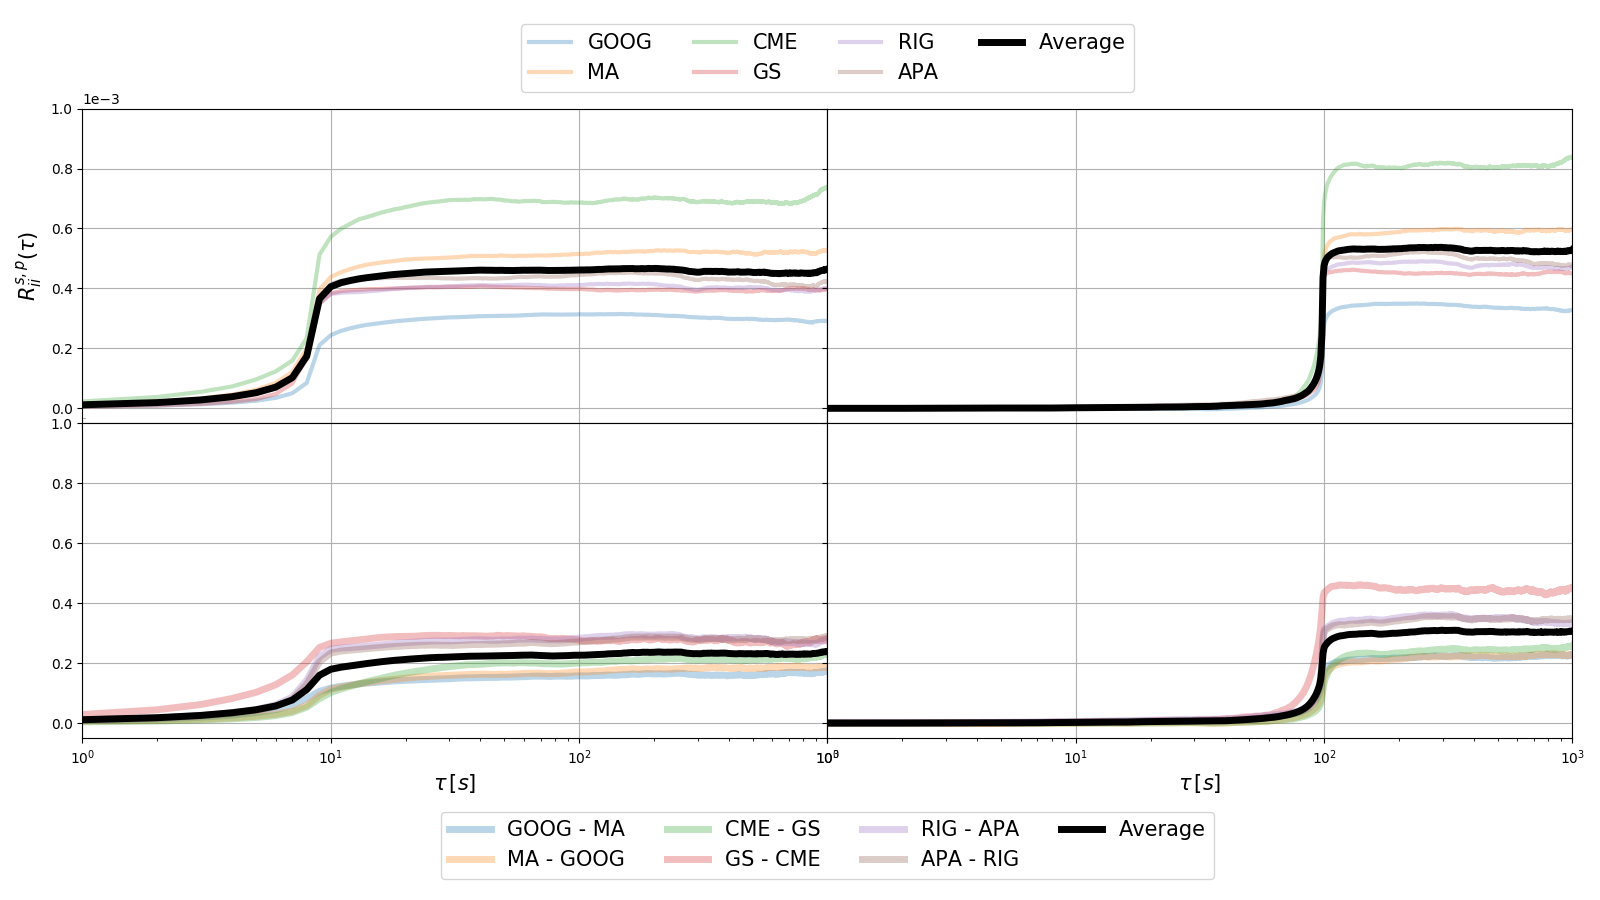
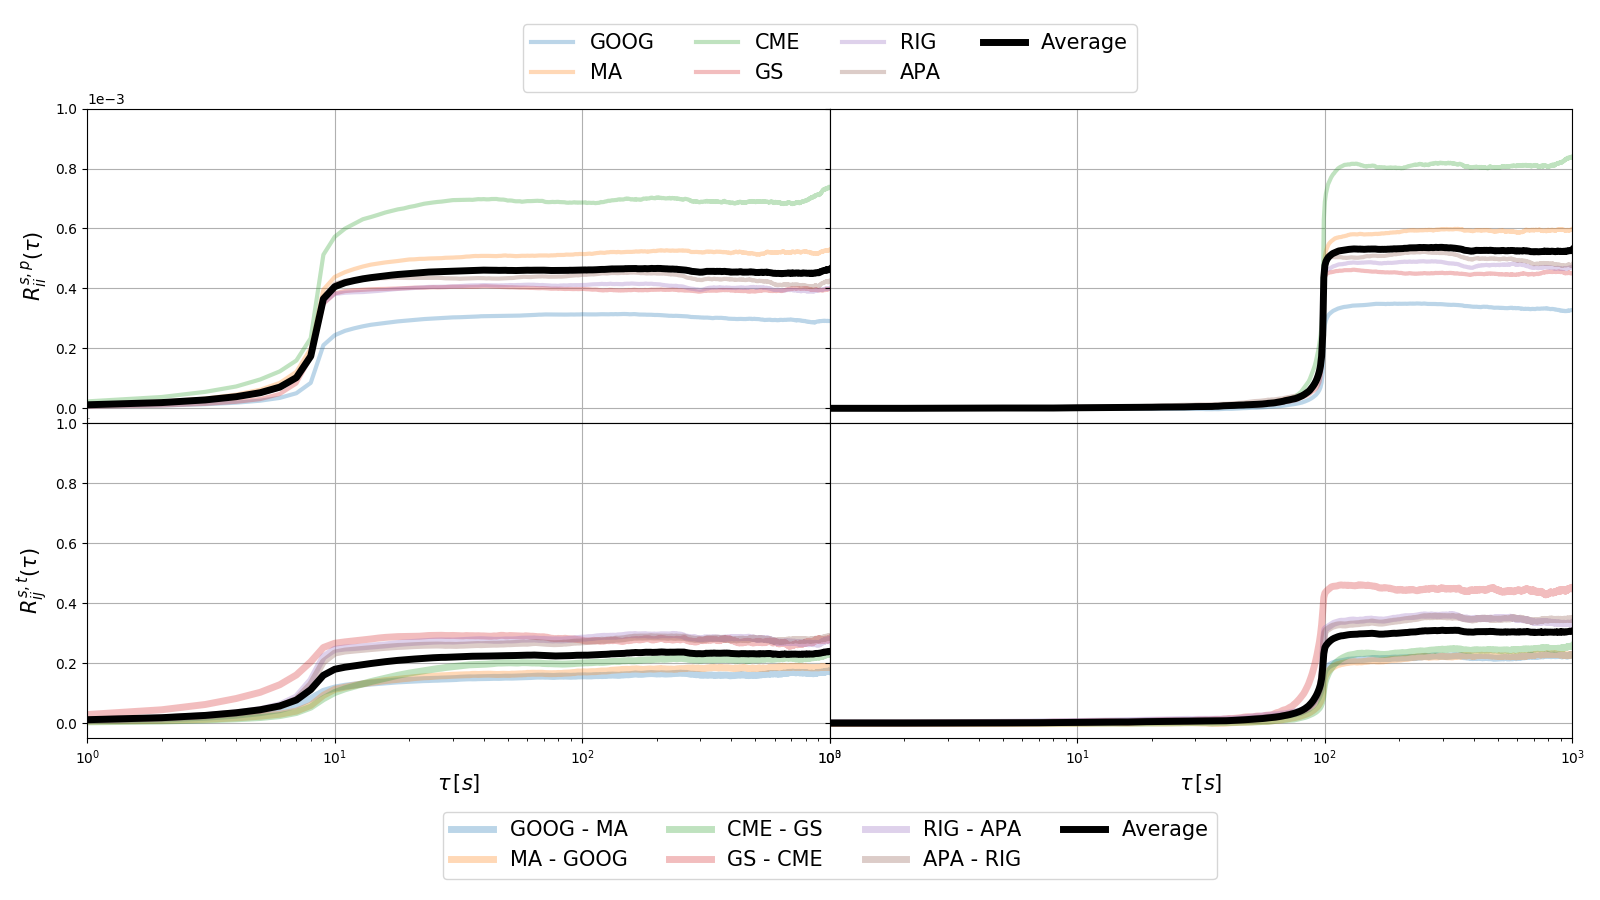
Fix label mistake

diff --git a/paper/algorithms/04_shift.py b/paper/algorithms/04_shift.py
@@ -816,6 +816,7 @@ def taq_physical_scale_responses_year_avg_shift_plot(tickers, sectors, year,
         ax3.legend(loc='upper center', bbox_to_anchor=(1.0, -0.2), ncol=4,
                    fontsize=15)
         ax3.set_xlabel(r'$\tau \, [s]$', fontsize=15)
+        ax3.set_ylabel(r'$R^{s,t}_{ij}(\tau)$', fontsize=15)
         ax3.set_ylim(-0.5 * 10 ** -4, 10 * 10 ** -4)
         ax3.set_xlim(1, 1000)
         ax3.set_ylim(13 * 10 ** -5, 16 * 10 ** -5)
@@ -862,16 +863,16 @@ def main():
                ('RIG', 'APA'), ('APA', 'RIG')]
     year = '2008'
 
-    for sector in sectors:
-        taq_trade_scale_shift_year_avg_plot(sector[0], sector[1], year,
-                                            taus)
-        taq_physical_scale_shift_year_avg_plot(sector[0], sector[1], year,
-                                               taus)
+    # for sector in sectors:
+    #     taq_trade_scale_shift_year_avg_plot(sector[0], sector[1], year,
+    #                                         taus)
+    #     taq_physical_scale_shift_year_avg_plot(sector[0], sector[1], year,
+    #                                            taus)
 
     taq_physical_scale_responses_year_avg_shift_plot(tickers, sectors, year,
                                                      [10, 100])
-    taq_trade_scale_responses_year_avg_shift_plot(tickers, sectors, year,
-                                                     [10, 100])
+    # taq_trade_scale_responses_year_avg_shift_plot(tickers, sectors, year,
+    #                                                  [10, 100])
 
     return None
 
